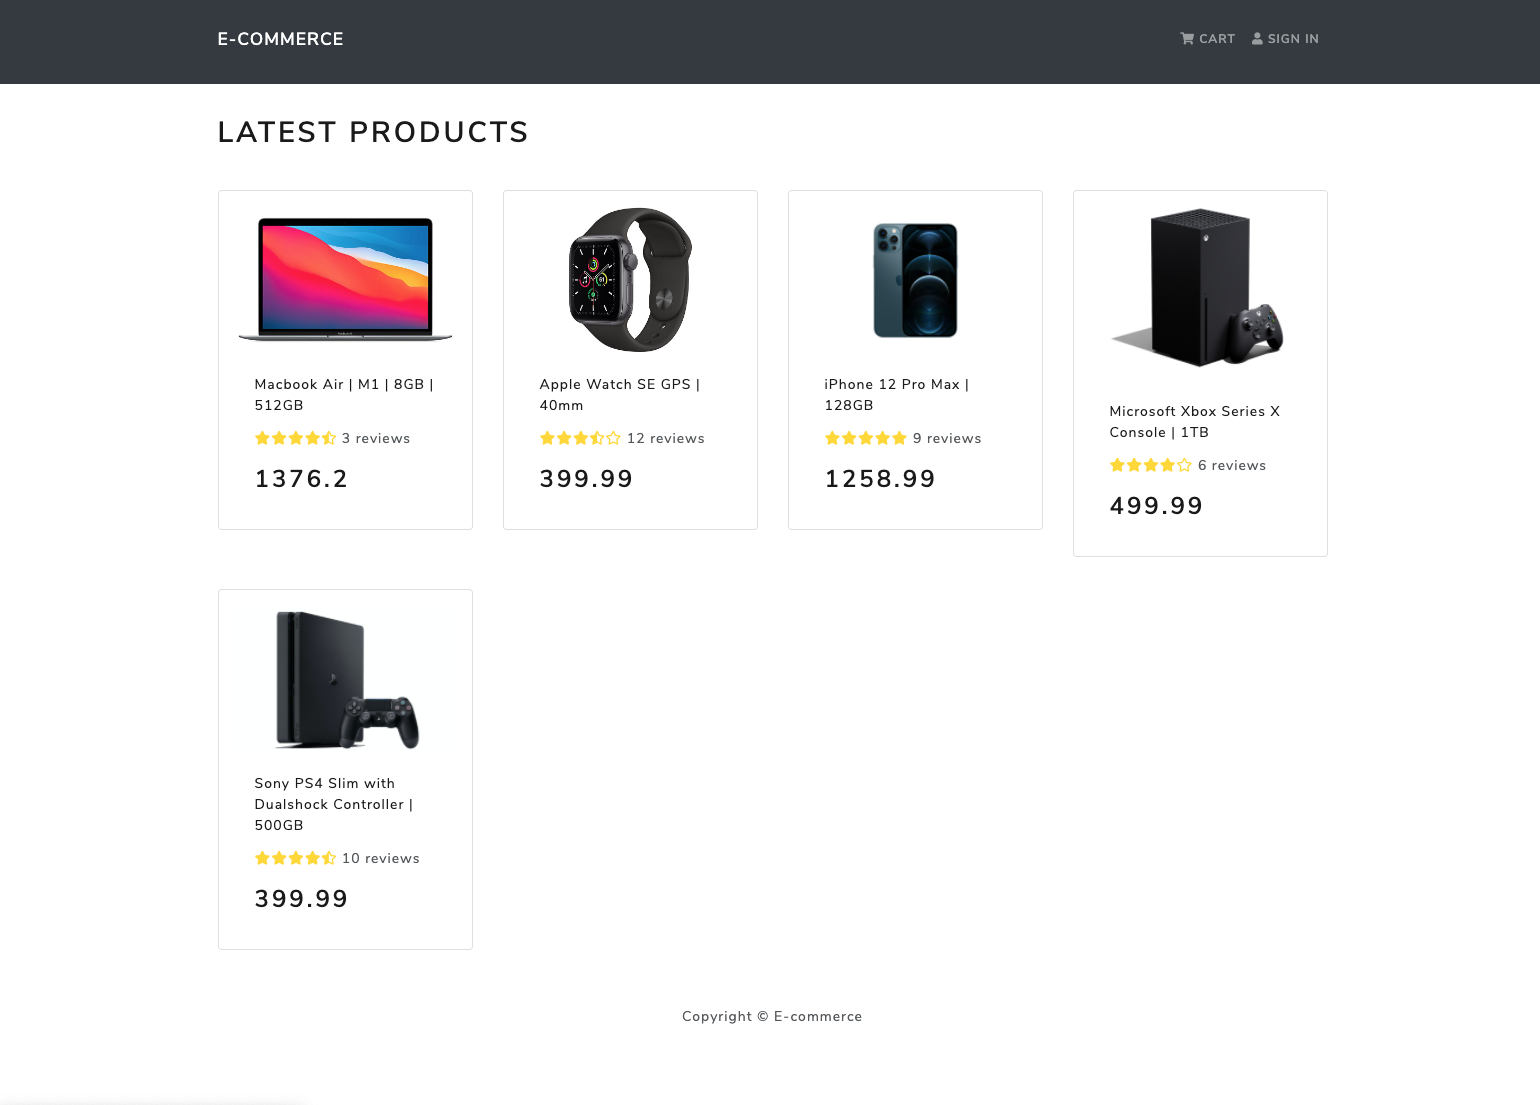
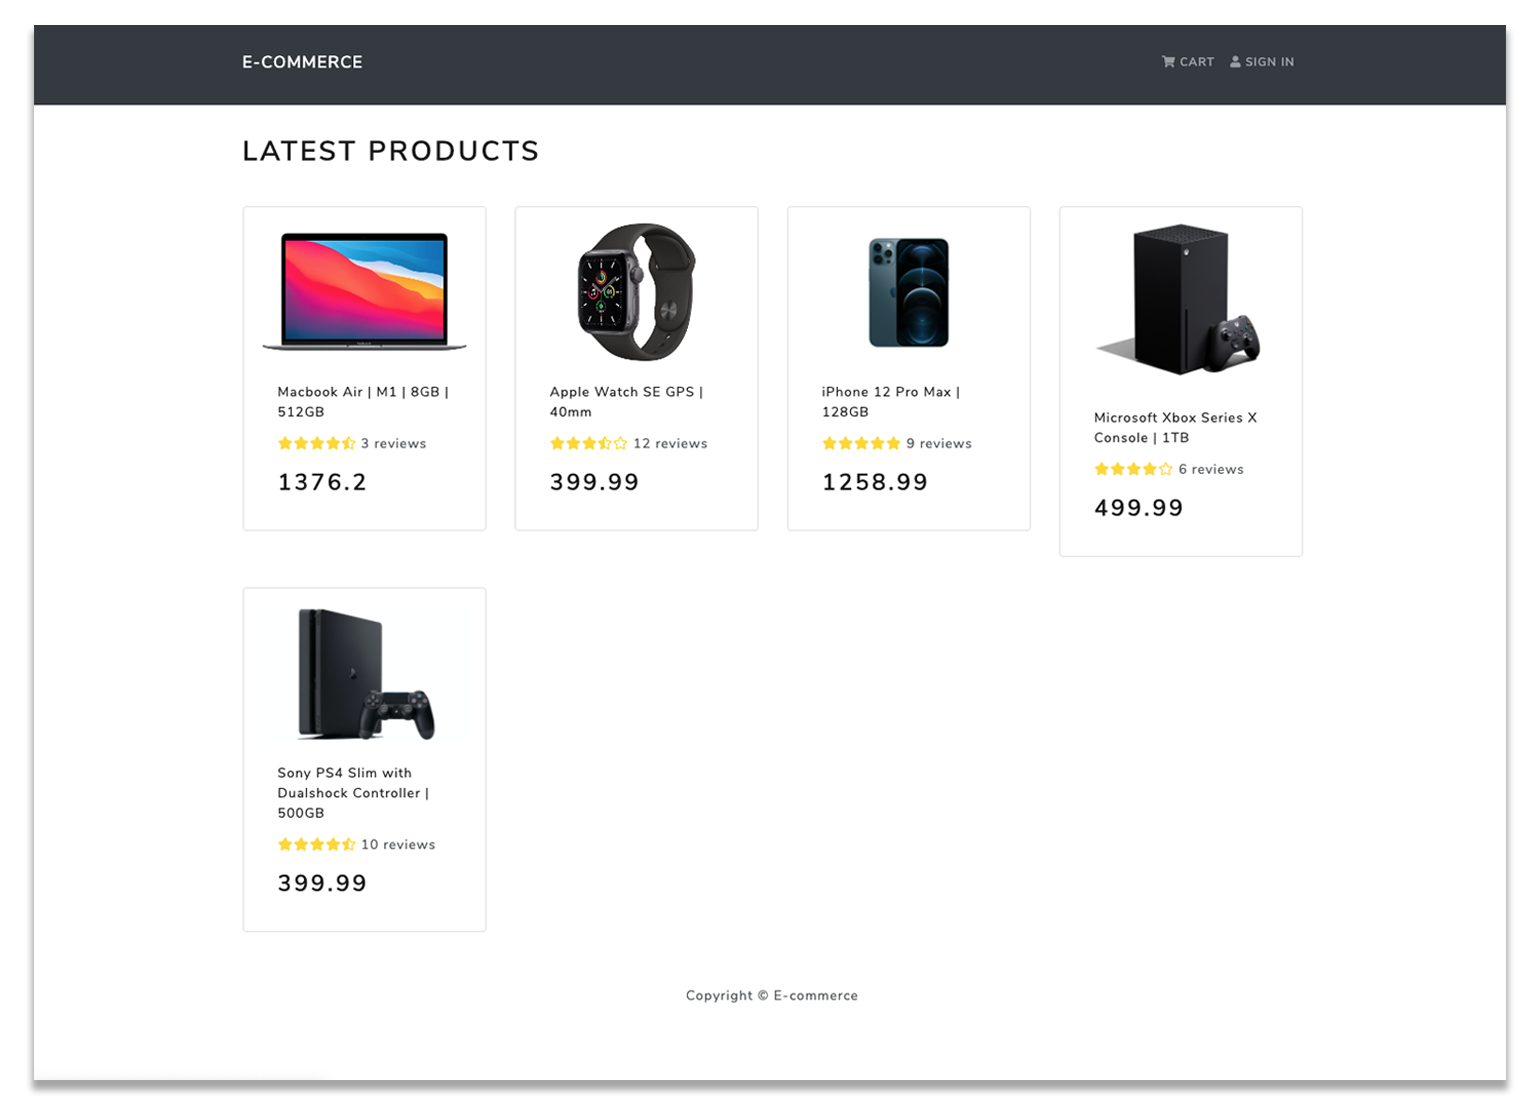
README Image

diff --git a/README.md b/README.md
@@ -12,9 +12,7 @@
       - Admin panel with CRUD functionality for products and users
 
 <p align="center">
-  <img style="max-width: 80%; -webkit-box-shadow: 0px 0px 5px 0px rgba(0,0,0,0.75);
--moz-box-shadow: 0px 0px 5px 0px rgba(0,0,0,0.75);
-box-shadow: 0px 0px 5px 0px rgba(0,0,0,0.75);" src="frontend/public/images/homescreen.png">
+  <img style="max-width: 80%;"src="frontend/public/images/homescreen.png">
 </p>
 
 
